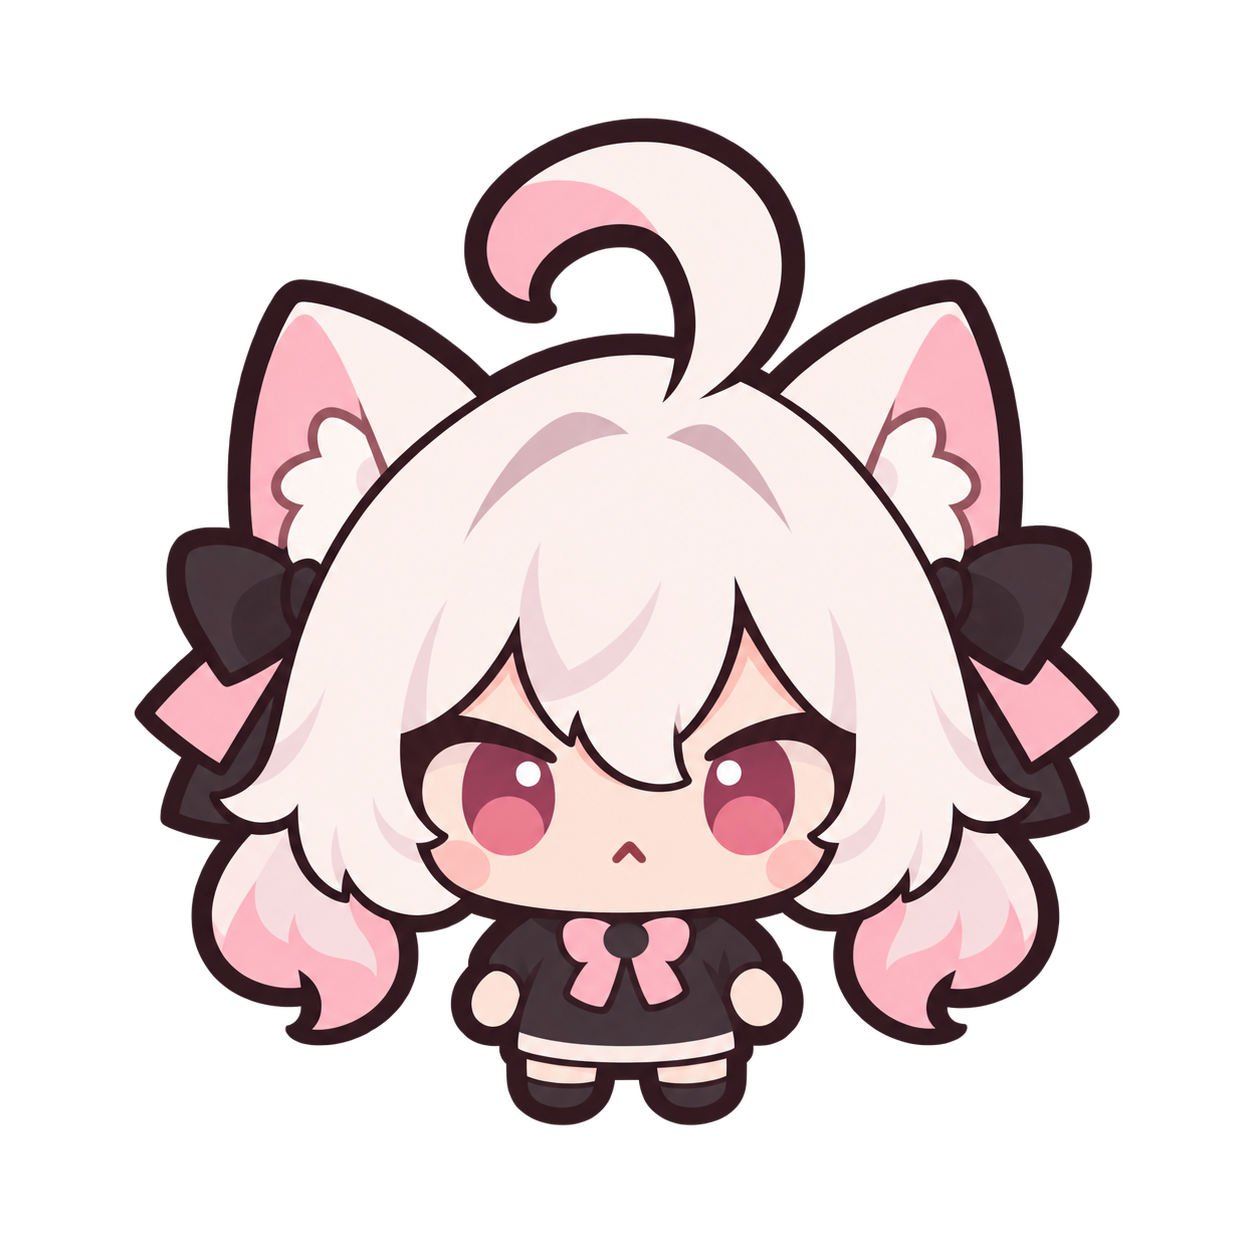
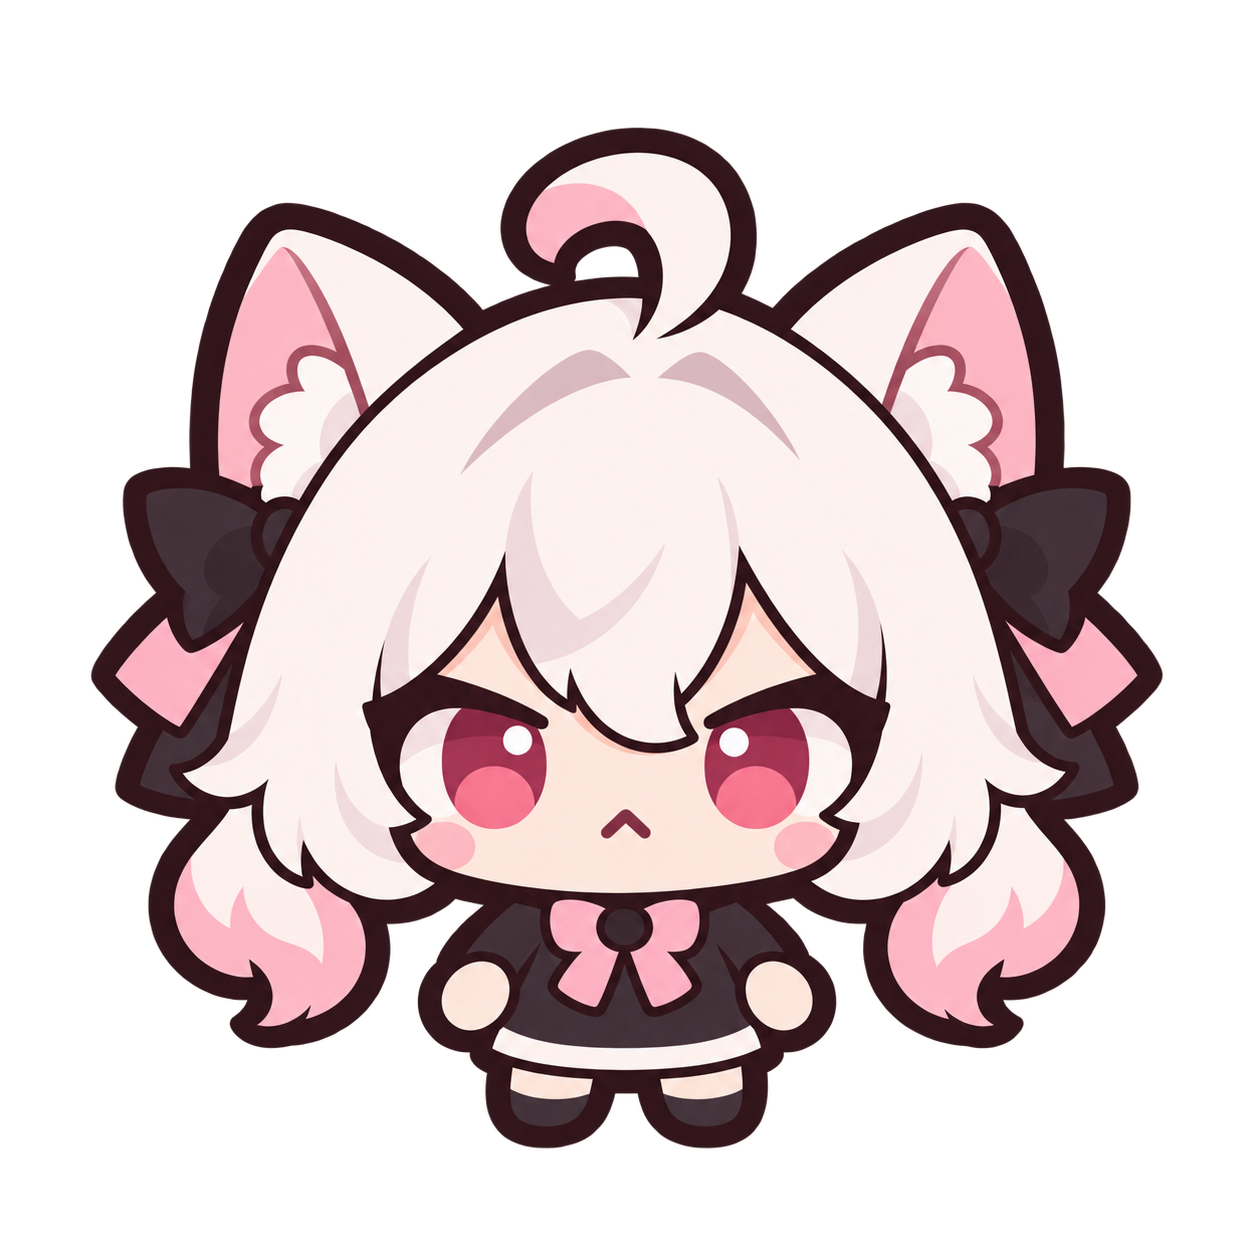
Fix enemy hover range contrast and render hero at native layout size

Changed region(s): [[0.0622, 0.0933, 0.933, 0.933]]

diff --git a/src/style.css b/src/style.css
@@ -242,7 +242,8 @@ h1 {
 .tile.odd.danger {
   background: #d9b7a4;
 }
-.tile.focus-threat {
+.tile.focus-threat,
+.tile.odd.danger.focus-threat {
   background: #db9f8f;
 }
 .tile.legal:after {
@@ -310,7 +311,6 @@ h1 {
   height: 18%;
   transform: translate(-50%, -50%);
   pointer-events: none;
-  will-change: transform;
 }
 .actor img {
   width: 100%;
@@ -326,9 +326,8 @@ h1 {
 }
 .actor.hero {
   z-index: 3;
-}
-.actor.hero img {
-  scale: 1.18;
+  width: 21.24%;
+  height: 21.24%;
 }
 .actor.ghost {
   opacity: 0.68;
